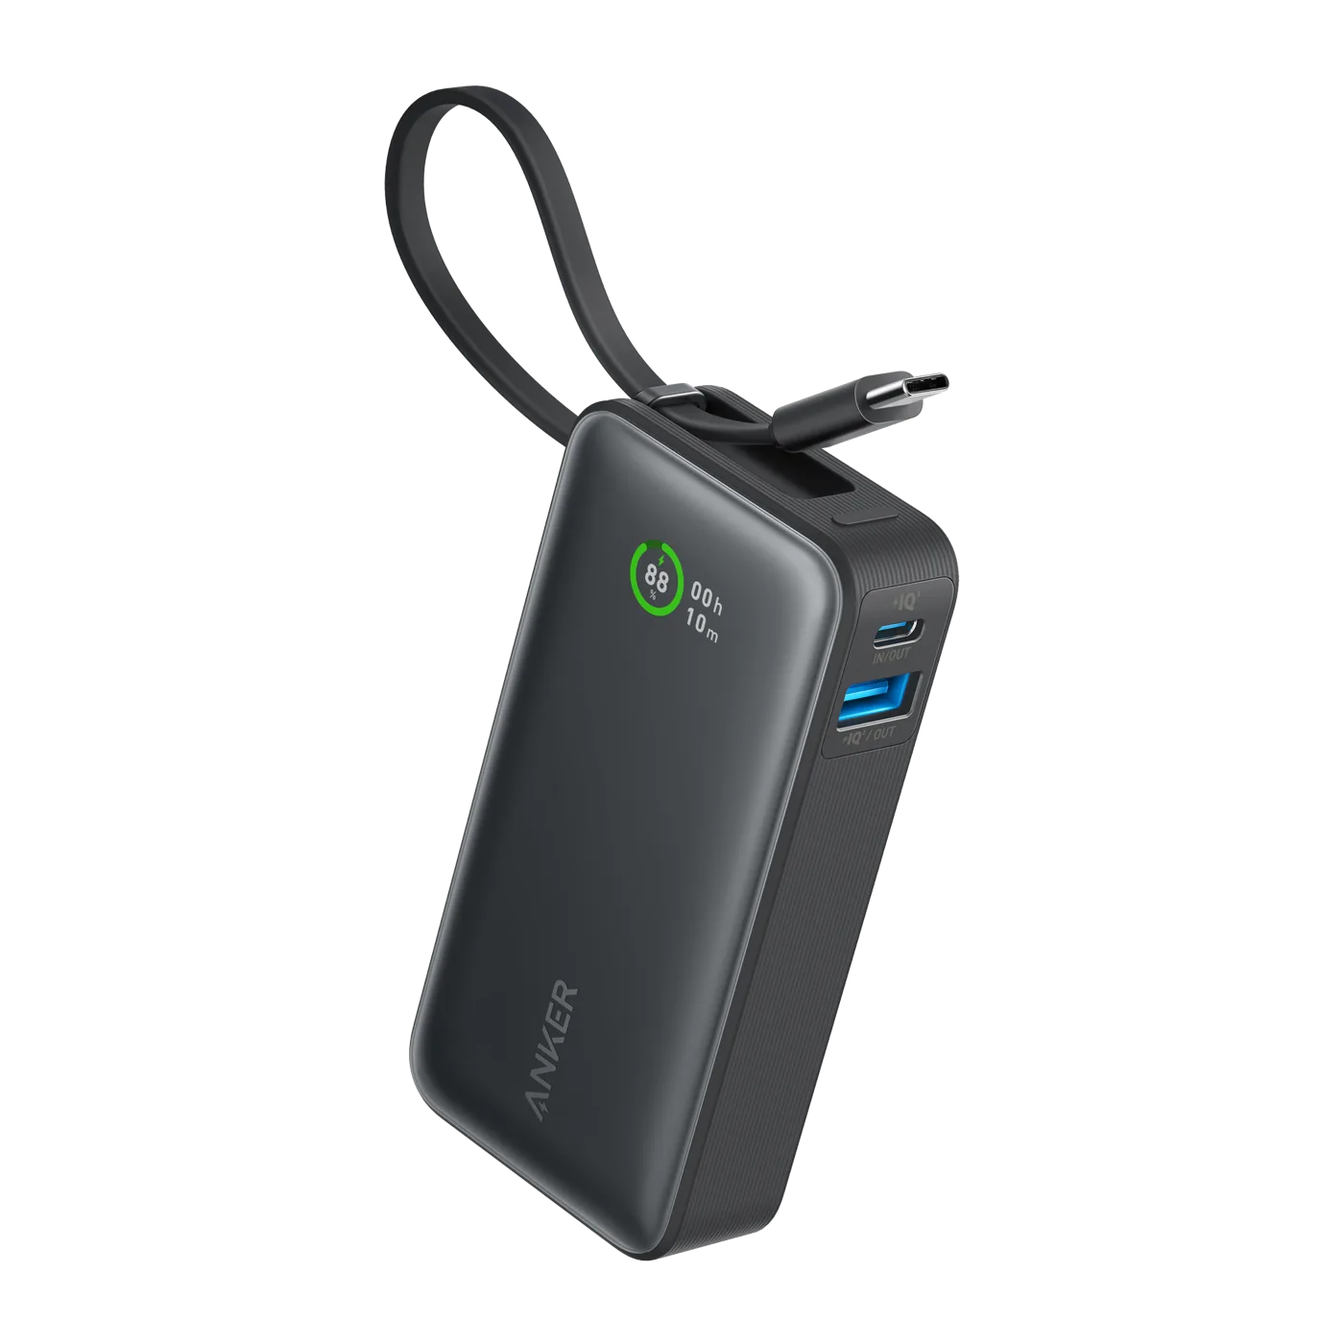
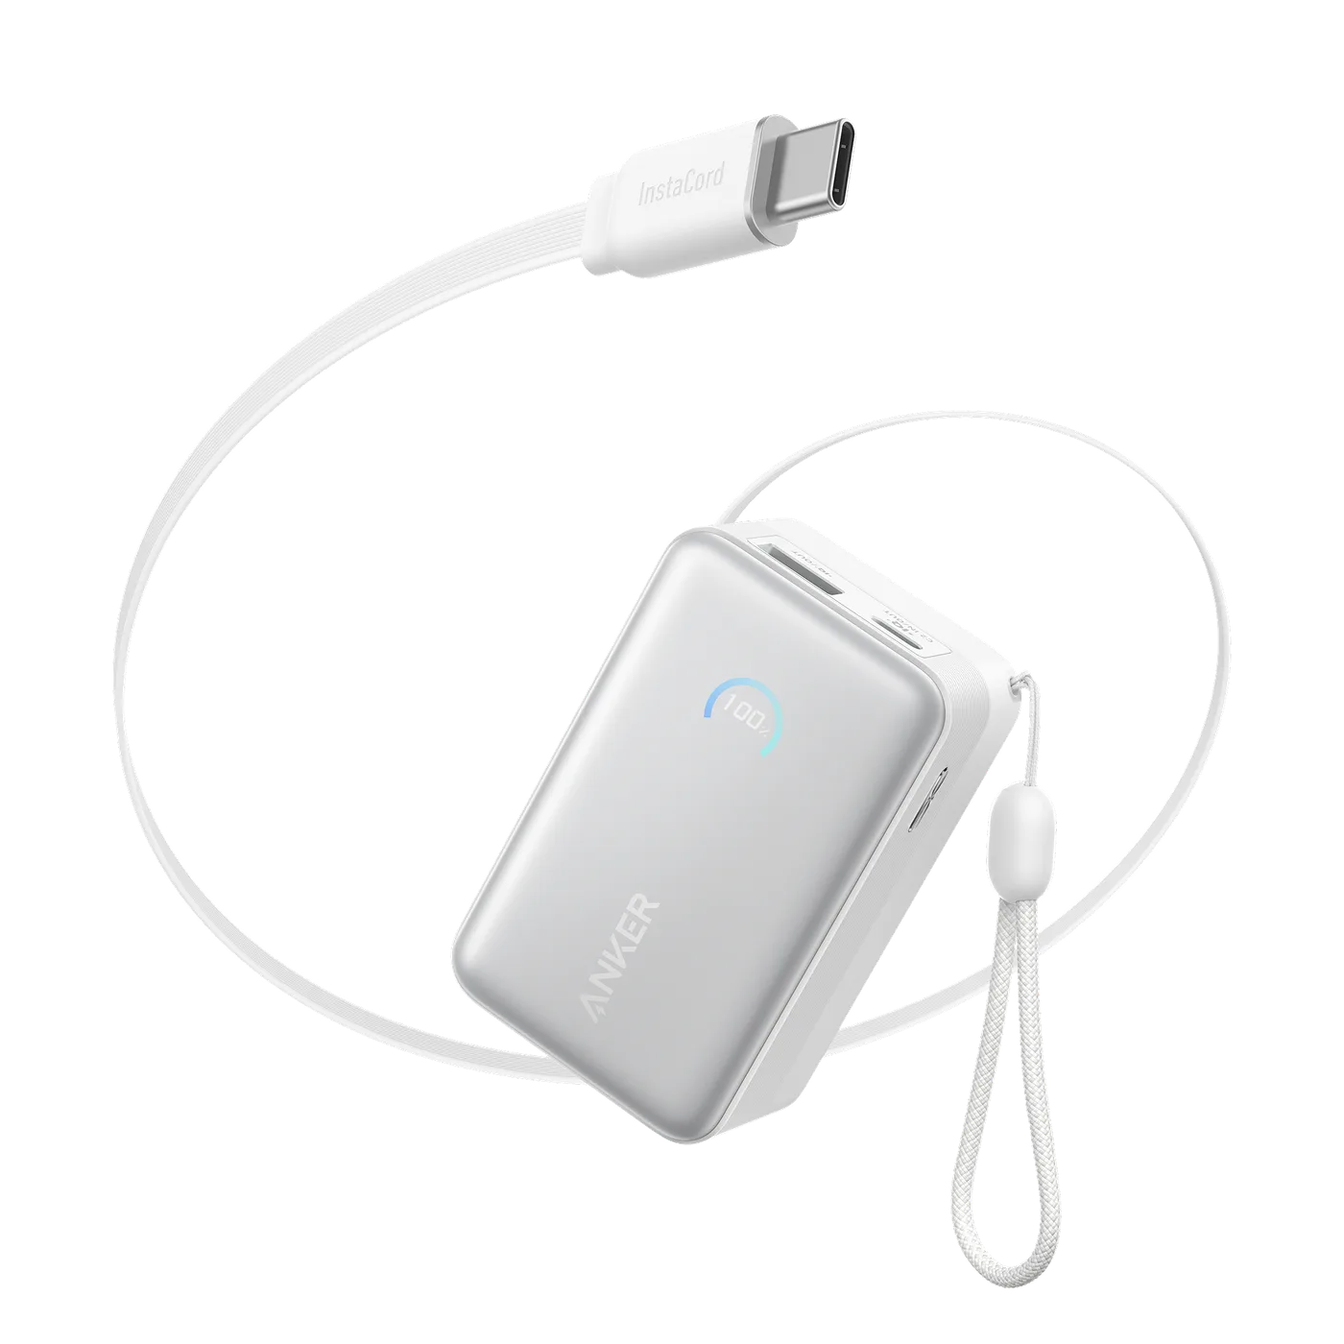
catalog: official photos for 20 products, latest models (Redmi Note 17 Pro Max, Zenbook A14 2026, Anker Nano 45W), drop WH-1000XM4C

diff --git a/guides/best-laptop-uae.html b/guides/best-laptop-uae.html
@@ -23,7 +23,7 @@
     <link rel="stylesheet" href="/assets/css/style.css?v=8.0">
     <script type="application/ld+json">{"@context":"https://schema.org","@type":"FAQPage","mainEntity":[{"@type":"Question","name":"Do laptops on Amazon.ae come with an Arabic keyboard?","acceptedAnswer":{"@type":"Answer","text":"Most are English-Arabic bilingual keyboards. The listing states the layout; English-only versions are also sold."}},{"@type":"Question","name":"Is the MacBook warranty international?","acceptedAnswer":{"@type":"Answer","text":"Apple provides a one-year worldwide warranty, and the Apple Stores in Dubai and Abu Dhabi handle service locally."}},{"@type":"Question","name":"How much RAM do I need in 2026?","acceptedAnswer":{"@type":"Answer","text":"16 GB is the sensible minimum for a laptop you will keep for four years. Go to 24 GB or more for video editing and heavy multitasking."}}]}</script>
     <script type="application/ld+json">{"@context":"https://schema.org","@type":"Article","headline":"Best Laptops in UAE for Work and Study (2026)","description":"The laptops worth buying on Amazon.ae in 2026 for work, university and gaming: MacBook Air M5, MacBook Pro M6, ASUS Zenbook A14, Lenovo Yoga and budget options.","dateModified":"2026-09-01","mainEntityOfPage":"https://gadgetsdxb.com/guides/best-laptop-uae.html","author":{"@type":"Organization","name":"GadgetsUAE","url":"https://gadgetsdxb.com"},"publisher":{"@type":"Organization","name":"GadgetsUAE","logo":{"@type":"ImageObject","url":"https://gadgetsdxb.com/android-chrome-512x512.png"}}}</script>
-    <script type="application/ld+json">{"@context":"https://schema.org","@type":"ItemList","name":"Best Laptops in UAE for Work and Study (2026)","itemListElement":[{"@type":"ListItem","position":1,"name":"Apple MacBook Air 13-inch with M5 chip, 512GB","url":"https://www.amazon.ae/s?k=Apple%20MacBook%20Air%20M5%2013%20inch&tag=gadgetsdxb-21"},{"@type":"ListItem","position":2,"name":"Apple MacBook Pro 14-inch with M6 chip","url":"https://www.amazon.ae/s?k=Apple%20MacBook%20Pro%2014%20inch%20M6&tag=gadgetsdxb-21"},{"@type":"ListItem","position":3,"name":"ASUS ROG Zephyrus G14 (2026) 14-inch OLED Gaming Laptop","url":"https://www.amazon.ae/s?k=ASUS%20ROG%20Zephyrus%20G14%202026%20GU405&tag=gadgetsdxb-21"},{"@type":"ListItem","position":4,"name":"ASUS Zenbook A14 Copilot+ PC 14-inch OLED Laptop","url":"https://www.amazon.ae/s?k=ASUS%20Zenbook%20A14%20Copilot%2B%20laptop&tag=gadgetsdxb-21"},{"@type":"ListItem","position":5,"name":"Lenovo Yoga Slim 7i Aura Edition Gen 11 14-inch Laptop","url":"https://www.amazon.ae/s?k=Lenovo%20Yoga%20Slim%207i%20Aura%20Edition%20Gen%2011%2014%20inch&tag=gadgetsdxb-21"},{"@type":"ListItem","position":6,"name":"Lenovo IdeaPad Slim 3 15-inch Laptop Ryzen 5","url":"https://www.amazon.ae/s?k=Lenovo%20IdeaPad%20Slim%203%2015%20inch%20Ryzen%205%20laptop&tag=gadgetsdxb-21"},{"@type":"ListItem","position":7,"name":"ASUS TUF Gaming A16 (2026) 16-inch RTX 50 Gaming Laptop","url":"https://www.amazon.ae/s?k=ASUS%20TUF%20Gaming%20A16%202026%20RTX%205070&tag=gadgetsdxb-21"}]}</script>
+    <script type="application/ld+json">{"@context":"https://schema.org","@type":"ItemList","name":"Best Laptops in UAE for Work and Study (2026)","itemListElement":[{"@type":"ListItem","position":1,"name":"Apple MacBook Air 13-inch with M5 chip, 512GB","url":"https://www.amazon.ae/s?k=Apple%20MacBook%20Air%20M5%2013%20inch&tag=gadgetsdxb-21"},{"@type":"ListItem","position":2,"name":"Apple MacBook Pro 14-inch with M6 chip","url":"https://www.amazon.ae/s?k=Apple%20MacBook%20Pro%2014%20inch%20M6&tag=gadgetsdxb-21"},{"@type":"ListItem","position":3,"name":"ASUS ROG Zephyrus G14 (2026) 14-inch OLED Gaming Laptop","url":"https://www.amazon.ae/s?k=ASUS%20ROG%20Zephyrus%20G14%202026%20GU405&tag=gadgetsdxb-21"},{"@type":"ListItem","position":4,"name":"ASUS Zenbook A14 (2026) Snapdragon X2 Elite 14\" OLED Laptop","url":"https://www.amazon.ae/s?k=ASUS%20Zenbook%20A14%20UX3407%20Snapdragon%20X2%20Elite&tag=gadgetsdxb-21"},{"@type":"ListItem","position":5,"name":"Lenovo Yoga Slim 7i Aura Edition Gen 11 14-inch Laptop","url":"https://www.amazon.ae/s?k=Lenovo%20Yoga%20Slim%207i%20Aura%20Edition%20Gen%2011%2014%20inch&tag=gadgetsdxb-21"},{"@type":"ListItem","position":6,"name":"Lenovo IdeaPad Slim 3 15-inch Laptop Ryzen 5","url":"https://www.amazon.ae/s?k=Lenovo%20IdeaPad%20Slim%203%2015%20inch%20Ryzen%205%20laptop&tag=gadgetsdxb-21"},{"@type":"ListItem","position":7,"name":"ASUS TUF Gaming A16 (2026) 16-inch RTX 50 Gaming Laptop","url":"https://www.amazon.ae/s?k=ASUS%20TUF%20Gaming%20A16%202026%20RTX%205070&tag=gadgetsdxb-21"}]}</script>
 </head>
 <body data-page="guide" data-category="Tech">
     <div id="menu-include"></div>
@@ -72,7 +72,7 @@
                 <div class="guide-pick">
                     <div class="guide-pick-text">
                         <span class="guide-rank">04</span>
-                        <h2>ASUS Zenbook A14 Copilot+ PC 14-inch OLED Laptop</h2>
+                        <h2>ASUS Zenbook A14 (2026) Snapdragon X2 Elite 14&quot; OLED Laptop</h2>
                         <p>Under a kilo with a full working day of battery: the Windows laptop that finally matches the Air on portability.</p>
                     </div>
                     <div class="guide-pick-card" data-pick="asus-zenbook-a14"></div>

diff --git a/guides/best-power-bank-charger-uae.html b/guides/best-power-bank-charger-uae.html
@@ -23,7 +23,7 @@
     <link rel="stylesheet" href="/assets/css/style.css?v=8.0">
     <script type="application/ld+json">{"@context":"https://schema.org","@type":"FAQPage","mainEntity":[{"@type":"Question","name":"What is the power bank limit on Emirates and Etihad?","acceptedAnswer":{"@type":"Answer","text":"Up to 100 Wh in hand luggage without approval, never in checked bags. All power banks in this guide qualify."}},{"@type":"Question","name":"Is GaN better than a normal charger?","acceptedAnswer":{"@type":"Answer","text":"GaN chargers are smaller and cooler for the same wattage, which matters in summer and when travelling."}},{"@type":"Question","name":"Will a 100 W charger damage my phone?","acceptedAnswer":{"@type":"Answer","text":"No. USB-C Power Delivery negotiates the safe wattage with the device, so a 100 W charger is fine for earbuds or a phone."}}]}</script>
     <script type="application/ld+json">{"@context":"https://schema.org","@type":"Article","headline":"Best Power Banks and Chargers in UAE (2026)","description":"Flight-safe power banks and GaN USB-C chargers worth buying on Amazon.ae in 2026: Anker Prime, Anker Nano, UGREEN Nexode and Samsung 60 W.","dateModified":"2026-09-01","mainEntityOfPage":"https://gadgetsdxb.com/guides/best-power-bank-charger-uae.html","author":{"@type":"Organization","name":"GadgetsUAE","url":"https://gadgetsdxb.com"},"publisher":{"@type":"Organization","name":"GadgetsUAE","logo":{"@type":"ImageObject","url":"https://gadgetsdxb.com/android-chrome-512x512.png"}}}</script>
-    <script type="application/ld+json">{"@context":"https://schema.org","@type":"ItemList","name":"Best Power Banks and Chargers in UAE (2026)","itemListElement":[{"@type":"ListItem","position":1,"name":"Anker Nano Power Bank 10,000mAh 30W with Built-In USB-C Cable","url":"https://www.amazon.ae/s?k=Anker%20Nano%20Power%20Bank%2010000mAh%2030W%20built-in%20USB-C%20cable&tag=gadgetsdxb-21"},{"@type":"ListItem","position":2,"name":"Anker Prime Power Bank 26,250mAh 300W with Smart Display","url":"https://www.amazon.ae/s?k=Anker%20Prime%20Power%20Bank%2026250mAh%20300W&tag=gadgetsdxb-21"},{"@type":"ListItem","position":3,"name":"Anker Prime Charger 100W 3-Port GaN","url":"https://www.amazon.ae/s?k=Anker%20Prime%20Charger%20100W%203%20ports%20GaN&tag=gadgetsdxb-21"},{"@type":"ListItem","position":4,"name":"Anker Nano 65W USB-C Charger 3-Port","url":"https://www.amazon.ae/s?k=Anker%20Nano%2065W%20USB-C%20charger%203-port&tag=gadgetsdxb-21"},{"@type":"ListItem","position":5,"name":"UGREEN Nexode 100W USB-C GaN Charger 4-Port","url":"https://www.amazon.ae/s?k=UGREEN%20Nexode%20100W%20GaN%20charger%204-port&tag=gadgetsdxb-21"},{"@type":"ListItem","position":6,"name":"Samsung 60W USB-C Power Adapter (EP-T6010)","url":"https://www.amazon.ae/s?k=Samsung%2060W%20Power%20Adapter%20EP-T6010&tag=gadgetsdxb-21"}]}</script>
+    <script type="application/ld+json">{"@context":"https://schema.org","@type":"ItemList","name":"Best Power Banks and Chargers in UAE (2026)","itemListElement":[{"@type":"ListItem","position":1,"name":"Anker Nano Power Bank 10K 45W with Retractable USB-C Cable","url":"https://www.amazon.ae/s?k=Anker%20Nano%20Power%20Bank%2010K%2045W%20retractable%20cable%20A1638&tag=gadgetsdxb-21"},{"@type":"ListItem","position":2,"name":"Anker Prime Power Bank 26,250mAh 300W with Smart Display","url":"https://www.amazon.ae/s?k=Anker%20Prime%20Power%20Bank%2026250mAh%20300W&tag=gadgetsdxb-21"},{"@type":"ListItem","position":3,"name":"Anker Prime Charger 100W 3-Port GaN","url":"https://www.amazon.ae/s?k=Anker%20Prime%20Charger%20100W%203%20ports%20GaN&tag=gadgetsdxb-21"},{"@type":"ListItem","position":4,"name":"Anker Nano 65W USB-C Charger 3-Port","url":"https://www.amazon.ae/s?k=Anker%20Nano%2065W%20USB-C%20charger%203-port&tag=gadgetsdxb-21"},{"@type":"ListItem","position":5,"name":"UGREEN Nexode 100W USB-C GaN Charger 4-Port","url":"https://www.amazon.ae/s?k=UGREEN%20Nexode%20100W%20GaN%20charger%204-port&tag=gadgetsdxb-21"},{"@type":"ListItem","position":6,"name":"Samsung 60W USB-C Power Adapter (EP-T6010)","url":"https://www.amazon.ae/s?k=Samsung%2060W%20Power%20Adapter%20EP-T6010&tag=gadgetsdxb-21"}]}</script>
 </head>
 <body data-page="guide" data-category="Accessories">
     <div id="menu-include"></div>
@@ -48,8 +48,8 @@
                 <div class="guide-pick">
                     <div class="guide-pick-text">
                         <span class="guide-rank">01</span>
-                        <h2>Anker Nano Power Bank 10,000mAh 30W with Built-In USB-C Cable</h2>
-                        <p>Built-in USB-C cable, fits in a pocket and charges an iPhone almost twice. The one to keep in your bag.</p>
+                        <h2>Anker Nano Power Bank 10K 45W with Retractable USB-C Cable</h2>
+                        <p>Retractable USB-C cable, fits in a pocket and charges an iPhone almost twice. The one to keep in your bag.</p>
                     </div>
                     <div class="guide-pick-card" data-pick="anker-nano-power-bank-10k"></div>
                 </div>

diff --git a/assets/data/catalog-images.js b/assets/data/catalog-images.js
@@ -18,6 +18,12 @@ const CATALOG_IMAGES = {
   "airtag-2-4-pack": [
     "/assets/images/airtag-2-4-pack/1.webp"
   ],
+  "amazfit-active-3-premium": [
+    "/assets/images/amazfit-active-3-premium/1.webp"
+  ],
+  "amazfit-balance-3": [
+    "/assets/images/amazfit-balance-3/1.webp"
+  ],
   "anker-555-hub": [
     "/assets/images/anker-555-hub/1.webp"
   ],
@@ -42,6 +48,12 @@ const CATALOG_IMAGES = {
   "anker-soundcore-boom-go-3i": [
     "/assets/images/anker-soundcore-boom-go-3i/1.webp"
   ],
+  "anker-soundcore-liberty-5-pro-max": [
+    "/assets/images/anker-soundcore-liberty-5-pro-max/1.webp"
+  ],
+  "anycubic-kobra-4-combo": [
+    "/assets/images/anycubic-kobra-4-combo/1.webp"
+  ],
   "apple-homepod-mini-2": [
     "/assets/images/apple-homepod-mini-2/1.jpg"
   ],
@@ -59,6 +71,12 @@ const CATALOG_IMAGES = {
   ],
   "apple-watch-ultra-4": [
     "/assets/images/apple-watch-ultra-4/1.webp"
+  ],
+  "aqara-camera-hub-g350": [
+    "/assets/images/aqara-camera-hub-g350/1.webp"
+  ],
+  "asus-tuf-gaming-a16-2026": [
+    "/assets/images/asus-tuf-gaming-a16-2026/1.webp"
   ],
   "asus-zenbook-a14": [
     "/assets/images/asus-zenbook-a14/1.jpg"
@@ -117,6 +135,12 @@ const CATALOG_IMAGES = {
   "dualsense-edge": [
     "/assets/images/dualsense-edge/1.jpg"
   ],
+  "dyson-hushjet-purifier-compact": [
+    "/assets/images/dyson-hushjet-purifier-compact/1.webp"
+  ],
+  "dyson-v16-piston-animal": [
+    "/assets/images/dyson-v16-piston-animal/1.webp"
+  ],
   "echo-dot-2026": [
     "/assets/images/echo-dot-2026/1.webp"
   ],
@@ -126,11 +150,17 @@ const CATALOG_IMAGES = {
   "ecovacs-deebot-x12s-omnicyclone": [
     "/assets/images/ecovacs-deebot-x12s-omnicyclone/1.webp"
   ],
+  "elegoo-centauri-carbon-2-combo": [
+    "/assets/images/elegoo-centauri-carbon-2-combo/1.webp"
+  ],
   "elgato-stream-deck-mk2": [
     "/assets/images/elgato-stream-deck-mk2/1.webp"
   ],
   "eufy-omni-e35": [
     "/assets/images/eufy-omni-e35/1.webp"
+  ],
+  "eufy-omni-s2": [
+    "/assets/images/eufy-omni-s2/1.webp"
   ],
   "eufy-video-doorbell-e340": [
     "/assets/images/eufy-video-doorbell-e340/1.webp"
@@ -228,6 +258,9 @@ const CATALOG_IMAGES = {
   "jbl-go-5": [
     "/assets/images/jbl-go-5/1.webp"
   ],
+  "jbl-quantum-520x": [
+    "/assets/images/jbl-quantum-520x/1.webp"
+  ],
   "jbl-tune-780nc": [
     "/assets/images/jbl-tune-780nc/1.webp"
   ],
@@ -254,6 +287,9 @@ const CATALOG_IMAGES = {
   ],
   "lenovo-ideapad-slim-3": [
     "/assets/images/lenovo-ideapad-slim-3/1.webp"
+  ],
+  "lenovo-yoga-slim-7i-aura-gen11": [
+    "/assets/images/lenovo-yoga-slim-7i-aura-gen11/1.webp"
   ],
   "logitech-g-pro-x-superlight-2": [
     "/assets/images/logitech-g-pro-x-superlight-2/1.jpg"
@@ -297,6 +333,9 @@ const CATALOG_IMAGES = {
   "mijia-smart-air-purifier-6": [
     "/assets/images/mijia-smart-air-purifier-6/1.webp"
   ],
+  "nespresso-vertuo-up": [
+    "/assets/images/nespresso-vertuo-up/1.webp"
+  ],
   "nothing-ear-3": [
     "/assets/images/nothing-ear-3/1.webp"
   ],
@@ -311,6 +350,9 @@ const CATALOG_IMAGES = {
   ],
   "oneplus-15": [
     "/assets/images/oneplus-15/1.webp"
+  ],
+  "oura-ring-5": [
+    "/assets/images/oura-ring-5/1.webp"
   ],
   "philips-hue-lightstrip-plus": [
     "/assets/images/philips-hue-lightstrip-plus/1.jpg"
@@ -351,14 +393,23 @@ const CATALOG_IMAGES = {
   "razer-basilisk-v4-pro": [
     "/assets/images/razer-basilisk-v4-pro/1.webp"
   ],
-  "redmi-note-15-pro-plus": [
-    "/assets/images/redmi-note-15-pro-plus/1.webp"
+  "redmi-note-17-pro-max": [
+    "/assets/images/redmi-note-17-pro-max/1.webp"
+  ],
+  "ring-battery-doorbell-2nd-gen": [
+    "/assets/images/ring-battery-doorbell-2nd-gen/1.webp"
   ],
   "ring-battery-doorbell-pro-2nd-gen": [
     "/assets/images/ring-battery-doorbell-pro-2nd-gen/1.webp"
   ],
+  "ring-indoor-cam-plus": [
+    "/assets/images/ring-indoor-cam-plus/1.webp"
+  ],
   "roborock-qrevo-curv-2-pro": [
     "/assets/images/roborock-qrevo-curv-2-pro/1.webp"
+  ],
+  "roborock-saros-20-sonic": [
+    "/assets/images/roborock-saros-20-sonic/1.webp"
   ],
   "rog-xbox-ally-x20": [
     "/assets/images/rog-xbox-ally-x20/1.webp"
@@ -386,6 +437,9 @@ const CATALOG_IMAGES = {
   ],
   "satechi-chargeview-140w": [
     "/assets/images/satechi-chargeview-140w/1.webp"
+  ],
+  "sony-wf-1000xm6": [
+    "/assets/images/sony-wf-1000xm6/1.webp"
   ],
   "sony-wh-1000xm6": [
     "/assets/images/sony-wh-1000xm6/1.jpg"
@@ -419,6 +473,9 @@ const CATALOG_IMAGES = {
   ],
   "ugreen-nexode-100w": [
     "/assets/images/ugreen-nexode-100w/1.webp"
+  ],
+  "vivo-x300-pro": [
+    "/assets/images/vivo-x300-pro/1.webp"
   ],
   "xbox-elite-series-2": [
     "/assets/images/xbox-elite-series-2/1.jpg"

diff --git a/assets/data/catalog-items.js b/assets/data/catalog-items.js
@@ -469,19 +469,19 @@ const CATALOG_ITEMS = [
     heat: 72
   },
   {
-    id: 'redmi-note-15-pro-plus',
+    id: 'redmi-note-17-pro-max',
     brand: 'Xiaomi',
-    model: 'Redmi Note 15 Pro+',
-    title: 'Xiaomi Redmi Note 15 Pro+ 5G 512GB',
+    model: 'Note 17 Pro Max',
+    title: 'Xiaomi Redmi Note 17 Pro Max 5G',
     category: 'Mobiles',
     sub: 'Smartphone',
     tier: 'budget',
     tags: ['xiaomi', 'redmi', 'value', '5g'],
-    blurb: 'Rugged value pick: IP68/IP69K, a 200MP camera and 100W charging, sold officially in the UAE.',
-    specs: ['200MP OIS', '6500mAh 100W', 'IP68/IP69K'],
-    query: 'Redmi Note 15 Pro+ 5G 512GB',
+    blurb: 'Rugged value pick with a 10,000mAh battery that lasts days, IP68/IP69K and 100W charging.',
+    specs: ['6.83" 120Hz', '10000mAh 100W', 'IP68/IP69K'],
+    query: 'Redmi Note 17 Pro Max 5G',
     asin: null,
-    added: '2026-01',
+    added: '2026-11',
     heat: 70
   },
   {
@@ -876,14 +876,14 @@ const CATALOG_ITEMS = [
     id: 'asus-zenbook-a14',
     brand: 'ASUS',
     model: 'Zenbook A14',
-    title: 'ASUS Zenbook A14 Copilot+ PC 14-inch OLED Laptop',
+    title: 'ASUS Zenbook A14 (2026) Snapdragon X2 Elite 14" OLED Laptop',
     category: 'Tech',
     sub: 'Laptop',
     tier: 'mid',
     tags: ['laptop', 'windows', 'ultralight', 'oled'],
-    blurb: 'Under 1kg with a 14-inch OLED and 30-plus hours of battery — the lightest Windows laptop for travel.',
-    specs: ['980g', '14" OLED', '32h battery'],
-    query: 'ASUS Zenbook A14 Copilot+ laptop',
+    blurb: 'Under 1kg with a 14-inch OLED and the new Snapdragon X2 Elite chip: the lightest Windows laptop for travel.',
+    specs: ['990g', 'Snapdragon X2', '70Wh battery'],
+    query: 'ASUS Zenbook A14 UX3407 Snapdragon X2 Elite',
     asin: null,
     added: '2026-09',
     heat: 60
@@ -1586,14 +1586,14 @@ const CATALOG_ITEMS = [
     id: 'anker-nano-power-bank-10k',
     brand: 'Anker',
     model: 'Nano Power Bank',
-    title: 'Anker Nano Power Bank 10,000mAh 30W with Built-In USB-C Cable',
+    title: 'Anker Nano Power Bank 10K 45W with Retractable USB-C Cable',
     category: 'Accessories',
     sub: 'Power Bank',
     tier: 'budget',
     tags: ['power-bank', 'usb-c', 'compact', 'travel'],
-    blurb: 'Pocket-sized with a built-in USB-C cable, so you never forget the lead — carry-on approved.',
-    specs: ['10,000mAh', '30W', 'Built-in cable'],
-    query: 'Anker Nano Power Bank 10000mAh 30W built-in USB-C cable',
+    blurb: 'Pocket-sized with a retractable USB-C cable and a little screen, so you never forget the lead. Carry-on approved.',
+    specs: ['10,000mAh', '45W', 'Retractable cable'],
+    query: 'Anker Nano Power Bank 10K 45W retractable cable A1638',
     asin: null,
     added: '2026-09',
     heat: 74
@@ -1936,22 +1936,6 @@ const CATALOG_ITEMS = [
     asin: null,
     added: '2026-09',
     heat: 75
-  },
-  {
-    id: 'sony-wh-1000xm4c',
-    brand: 'Sony',
-    model: 'WH-1000XM4C',
-    title: 'Sony WH-1000XM4C Wireless Noise Cancelling Headphones',
-    category: 'Audio',
-    sub: 'Headphones',
-    tier: 'mid',
-    tags: ['anc', 'wireless', 'headphones', 'foldable'],
-    blurb: 'The return of Sony\'s favourite ANC headphones, now at a friendlier price point.',
-    specs: ['1000X ANC', '27h battery', 'Foldable'],
-    query: 'Sony WH-1000XM4C headphones',
-    asin: null,
-    added: '2026-09',
-    heat: 72
   },
   {
     id: 'eufy-omni-e35',

diff --git a/products.html b/products.html
@@ -4,13 +4,13 @@
 <head>
     <meta charset="UTF-8">
     <meta name="viewport" content="width=device-width, initial-scale=1.0">
-    <title>All Products — 177 Hand-Picked Gadgets on Amazon.ae | GadgetsUAE</title>
+    <title>All Products — 176 Hand-Picked Gadgets on Amazon.ae | GadgetsUAE</title>
     <meta name="description" content="Browse every curated product on GadgetsUAE. Filter by category, budget and brand; gaming, phones, audio, laptops, smart home, wearables and accessories with Prime delivery in the UAE.">
     <meta name="robots" content="index, follow, max-image-preview:large, max-snippet:-1">
     <link rel="canonical" href="https://gadgetsdxb.com/products.html">
     <link rel="icon" type="image/x-icon" href="/favicon.ico">
     <link rel="apple-touch-icon" sizes="180x180" href="/apple-touch-icon.png">
-    <meta property="og:title" content="All Products — 177 Hand-Picked Gadgets on Amazon.ae | GadgetsUAE">
+    <meta property="og:title" content="All Products — 176 Hand-Picked Gadgets on Amazon.ae | GadgetsUAE">
     <meta property="og:description" content="Browse every curated product on GadgetsUAE. Filter by category, budget and brand; gaming, phones, audio, laptops, smart home, wearables and accessories with Prime delivery in the UAE.">
     <meta property="og:type" content="website">
     <meta property="og:url" content="https://gadgetsdxb.com/products.html">
@@ -41,7 +41,7 @@
                         <svg class="icon" viewBox="0 0 24 24" fill="none" stroke="currentColor" stroke-width="2" stroke-linecap="round" aria-hidden="true"><circle cx="11" cy="11" r="7"/><path d="m20 20-3.5-3.5"/></svg>
                         <input type="search" id="catalog-search" placeholder="Search brand, model or type…" aria-label="Search the catalog" autocomplete="off">
                     </label>
-                    <span class="result-count"><span data-result-count>177</span> products</span>
+                    <span class="result-count"><span data-result-count>176</span> products</span>
                 </div>
                 <div class="filter-bar" id="filter-bar"></div>
                 <div class="products-grid stagger" id="all-products-grid"></div>

diff --git a/scripts/site-content.js b/scripts/site-content.js
@@ -306,7 +306,7 @@ const GUIDES = [
         intro: 'Between long commutes, weekend trips and summer power draws, a good charger and power bank remove a daily annoyance. Everything here is under the 100 Wh airline limit and uses the UAE three-pin plug.',
         quick: 'Pocket power bank: Anker Nano 10K. Laptop power bank: Anker Prime 26K. One charger for everything: Anker Prime 100 W. Budget wall charger: Anker Nano 65 W.',
         picks: [
-            { id: 'anker-nano-power-bank-10k', why: 'Built-in USB-C cable, fits in a pocket and charges an iPhone almost twice. The one to keep in your bag.' },
+            { id: 'anker-nano-power-bank-10k', why: 'Retractable USB-C cable, fits in a pocket and charges an iPhone almost twice. The one to keep in your bag.' },
             { id: 'anker-prime-26k-300w', why: 'Charges a MacBook Pro at full speed and two phones at once, yet still flies as carry-on.' },
             { id: 'anker-prime-100w-charger', why: 'Replace three chargers with one: laptop, phone and earbuds from a single compact GaN brick.' },
             { id: 'anker-nano-65w', why: 'Enough for a MacBook Air or any phone at max speed, small enough for a jacket pocket.' },

diff --git a/audio.html b/audio.html
@@ -34,7 +34,7 @@
 
         <section class="category-hero mag-hero" style="--cat:#be185d">
             <div class="container">
-                <div class="eyebrow">Audio · <span data-catalog-count>24</span> curated picks</div>
+                <div class="eyebrow">Audio · <span data-catalog-count>23</span> curated picks</div>
                 <h1>Audio</h1>
                 <p>Headphones for long-haul flights, earbuds for the metro and speakers for the beach — picked for sound, comfort and battery life.</p>
             </div>
@@ -53,7 +53,7 @@
             <div class="container">
                 <div class="section-header">
                     <h2>All audio picks</h2>
-                    <span class="result-count"><span data-result-count>24</span> shown</span>
+                    <span class="result-count"><span data-result-count>23</span> shown</span>
                 </div>
                 <div class="filter-bar" id="filter-bar"></div>
                 <div class="products-grid stagger" id="category-products-grid"></div>
